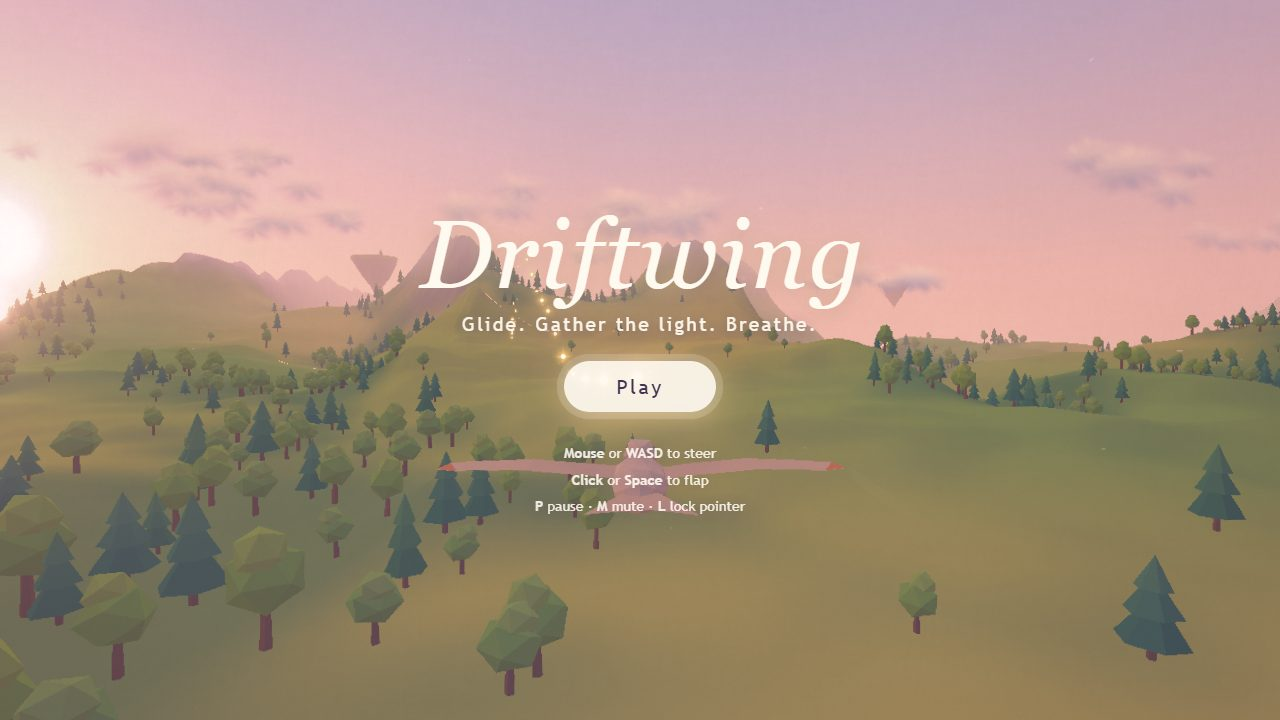
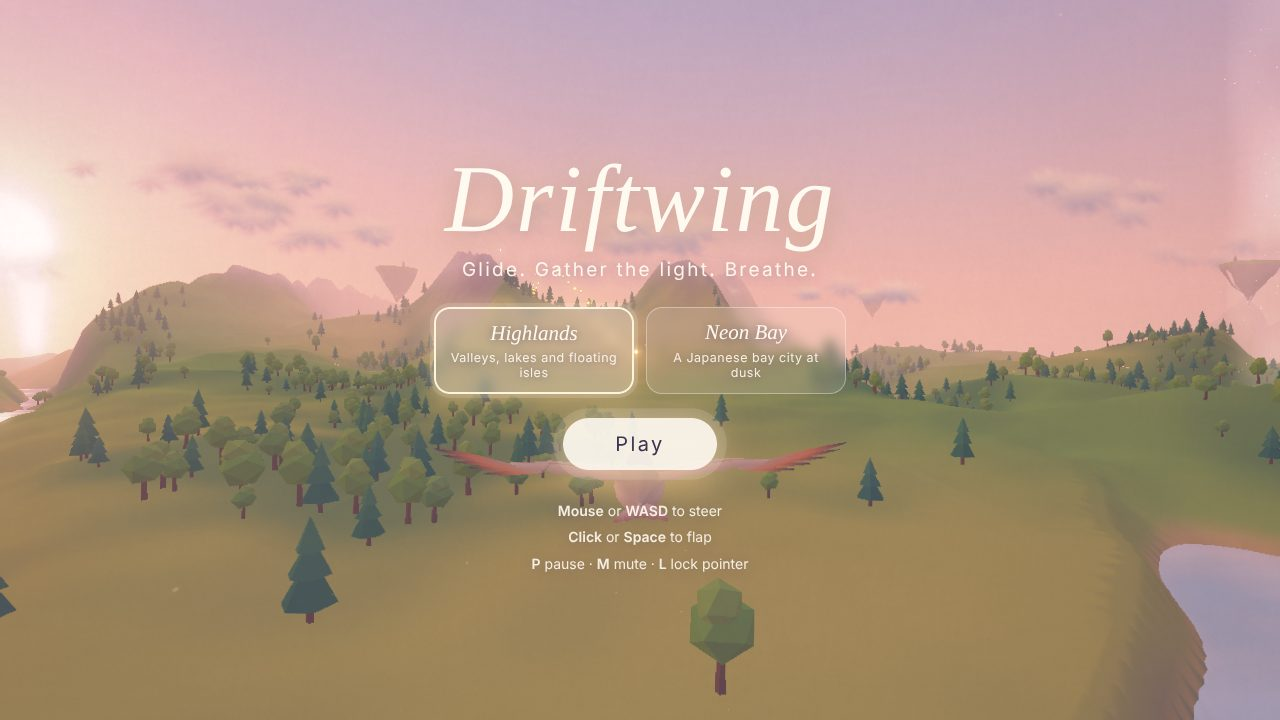
Docs, screenshots and polish for levels and Neon Bay
README: the levels, a Neon Bay gallery and the ?level flag. DESIGN.md: a
Levels and a Neon Bay section plus decisions (in-place level swap, pure city
layout, instanced facades and analytic streets, collision grid, checked wisp
paths, autopilot and re-anchor changes). CLAUDE.md: architecture for levels/
and world/city/. The screenshot scripts can place the bird at viewpoints and
take CHROMIUM_PATH. The selected level card stands out more.

Claude-Session: https://claude.ai/code/session_01UNpWdMC8dCyNR8mwCJxApg

diff --git a/src/ui/styles.css b/src/ui/styles.css
@@ -367,9 +367,11 @@ body.left-handed .flap-btn {
 }
 
 .level.selected {
-  border-color: rgba(255, 240, 210, 0.95);
-  background: rgba(255, 238, 214, 0.28);
-  box-shadow: 0 0 22px rgba(255, 210, 150, 0.45);
+  border: 2px solid rgba(255, 244, 220, 1);
+  background: rgba(255, 236, 210, 0.36);
+  box-shadow:
+    0 0 0 4px rgba(255, 255, 255, 0.14),
+    0 0 26px rgba(255, 210, 150, 0.6);
 }
 
 .level-name {

diff --git a/docs/DESIGN.md b/docs/DESIGN.md
@@ -32,6 +32,40 @@ Endless chunks from seeded noise: valleys, lakes, instanced low-poly forests, fl
 drifting clouds. Day cycle dawn -> day -> golden hour -> dusk drives sky gradient, fog and light.
 Post: bloom, paper grain, vignette, colour grade.
 
+## Levels
+
+Chosen on the title screen as cards; the attract flight behind the menu switches to the picked
+world at once (a short veil hides the rebuild). The pause menu's "Change level" returns to the
+title. The pick and a best score per level persist. A level is a `LevelDef` (name, opening time of
+day, day length, music keys, sky mountain) that creates a `World`: terrain, streamed scenery,
+what counts as solid, a steering assist, and hooks for wisp patterns and thermal placement.
+
+- **Highlands**: the original endless landscape (see World).
+- **Neon Bay**: an endless Japanese bay city, a Tokyo/Osaka blend, opening at dusk.
+
+## Neon Bay
+
+Plan: 240 m superblocks bounded by 40 m avenues (4 m tree-lined sidewalks), each split into
+3x3 blocks by 12 m streets. A bay runs east-west (spawn out on the water facing south, the sun
+setting over the skyline), a river meanders through with flat bridges, and a density field that
+peaks at a core just inland picks each block: glass towers (podium, tower, setback crown,
+antenna, blinking aviation lights), narrow mid-rises with blade signs and rooftop billboards
+(more along the river, after Dotonbori), apartment slabs, tiled gable-roof houses with gardens,
+parks (cherry, zelkova, pine, ponds, a pavilion), plazas, shrines (torii, approach path, stone
+lanterns, haiden and honden with copper or cypress roofs, a grove; sometimes an Inari tunnel of
+small torii), temples (gate, main hall, five-storey pagoda), grand wooded shrines and lattice
+broadcast towers in their own parks. Avenue crossings keep open corner plazas (a koban or a
+tree). Landmarks: a giant torii standing in the bay on the spawn line, elevated expressways
+(north-south decks at 15 m, east-west at 23 m) that cross the bay as bridges, and Fuji painted
+into the sky dome. Dusk lights the city: a hashed share of windows, shop fronts, neon, lanterns
+and lamp pools on the avenues. Music: yo pentatonic by day, hirajoshi after dusk.
+
+Flight among buildings: walls are solid but soft. A look-ahead (about a second) climbs over a
+roof within reach, dips under a deck or beam, or veers to the more open side of a tall wall; on
+contact the bird glances off, turning along the wall and losing a little speed. Wisps run down
+the avenues at street-canyon height, turning a quarter at crossings, circle towers, or glide
+over the roofs; the opening ribbon goes through the torii and up the spawn avenue.
+
 ## Gameplay
 
 Wisps in arcs/ribbons ahead of the player. Quick chains fill a flow meter (score multiplier,
@@ -107,3 +141,30 @@ Key drifts with the day cycle. SFX: flap whoosh, speed-scaled wind, splash. Look
   comfortably fast it creeps back 0.05. In Auto quality, hitting the floor steps the preset down.
   Phones default to Medium. Pixel ratio is capped per preset (max 2).
 - Debug-only lil-gui is a dynamic import, so it is a separate chunk players never download.
+- Levels swap in place (dispose the old world, build the new one at its spawn, reset time of day)
+  rather than reloading the page: audio stays unlocked and the title backdrop changes live.
+- The city layout is one pure, seeded function (no Three.js): superblocks are generated on demand
+  into parts (mesh, position, size, yaw, colour, style), trees and solid boxes, cached, and shared
+  by the renderer, collisions and wisp planning. Unit-tested in Node.
+- City rendering: six global instanced meshes (box, cylinder, gable, hip and ridge roofs, lattice)
+  plus three tree shapes, refilled from live chunks when the chunk set changes. One toon material
+  with a facade pass keyed by a per-instance style: window grids in world metres from the face
+  normal (any box gets correctly sized floors), faded to their average at a distance; lit windows,
+  neon, lanterns and aviation lights emit after dark (neon and beacons in HDR for bloom). The
+  street grid is regular, so the ground shader draws asphalt, sidewalks, lane lines, crossings and
+  lamp pools analytically from world position; a vertex attribute turns streets off in parks.
+- City collisions: boxes bucketed per superblock on an 8x8 grid (covering 24 m around it, since
+  avenue structures straddle edges), so a point query checks one cell. The push leaves through the
+  nearest face (undersides only for floating decks and beams). A wall contact kicks the turn rate
+  (a released critically damped spring turns 2r/omega in total) instead of snapping the heading.
+- City wisps are planned as a whole polyline and only spawned if every segment is clear of solids
+  (3.5 m margin). Avenue runs try canyon height, then low (9.5 m, under both deck levels, beside the
+  pillars) and high (32 m). Turns are 40 m arcs that stay inside the crossing and its corner plazas
+  even when cut, and go toward the ribbon's overall heading so it never doubles back. Runs follow
+  on from the last wisp with no gap (an unchecked gap could cross a tower).
+- Wisps (all levels): the autopilot follows the ribbon in spawn order with a carrot ~24 m ahead
+  (pure pursuit) instead of the nearest wisp; the path re-anchors only when it is behind the bird
+  or the bird has left it (no wisp ahead in reach), not merely when it runs far ahead; no pattern
+  is laid while the pool is nearly full or the path end is 600 m+ away (they would expire on
+  spawn and the path would run away). In a 10 minute headless flight per seed the city bot
+  gathers ~1.6 wisps/s and glances off a wall 0-6 times.

diff --git a/README.md b/README.md
@@ -1,9 +1,9 @@
 # Driftwing
 
-A calm, painterly bird-gliding game for the browser. Glide over an endless dreamy landscape,
-follow ribbons of glowing wisps and build a melody as you gather them. No fail state, no timer,
-no enemies. Everything (terrain, trees, sky, music, sound) is generated procedurally: the
-repository contains no art or audio assets.
+A calm, painterly bird-gliding game for the browser. Glide over an endless dreamy landscape or
+through a neon-lit Japanese bay city, follow ribbons of glowing wisps and build a melody as you
+gather them. No fail state, no timer, no enemies. Everything (terrain, trees, cities, sky,
+music, sound) is generated procedurally: the repository contains no art or audio assets.
 
 ![Title screen at dawn](docs/screenshots/title.jpg)
 
@@ -14,6 +14,30 @@ repository contains no art or audio assets.
 | ![Dusk](docs/screenshots/dusk.jpg) | ![Twilight](docs/screenshots/twilight.jpg)  |
 
 <img src="docs/screenshots/mobile.jpg" alt="Portrait phone layout" width="240">
+
+### Levels
+
+Pick a level on the title screen (the live backdrop follows your pick; the pause menu can take
+you back to choose again).
+
+- **Highlands**: endless valleys, lakes, forests and floating islands.
+- **Neon Bay**: an endless Japanese megacity on a bay, a Tokyo and Osaka blend, opening at dusk.
+  Start out on the water, fly through a giant torii and up a boulevard into the skyline. Glass
+  towers, narrow neon-signed shopping streets (busiest along the river), tiled-roof houses,
+  shrines and temples with pagodas, cherry-tree parks, elevated expressways, a lattice
+  broadcast tower and Fuji on the horizon. Windows and neon light up as night falls; the music
+  turns to Japanese pentatonic scales. Wisps lead down the avenues at street-canyon height:
+  buildings are solid but soft (you glance off them) and the bird veers around walls ahead.
+
+![Neon Bay title screen](docs/screenshots/city-title.jpg)
+
+| Down the boulevard at dusk                          | Night                                     |
+| --------------------------------------------------- | ----------------------------------------- |
+| ![Canyon](docs/screenshots/city-canyon.jpg)         | ![Night](docs/screenshots/city-night.jpg) |
+| **Temple and pagoda**                               | **Broadcast tower and Fuji**              |
+| ![Temple](docs/screenshots/city-temple.jpg)         | ![Tower](docs/screenshots/city-tower.jpg) |
+| **Under the expressway**                            |                                           |
+| ![Expressway](docs/screenshots/city-expressway.jpg) |                                           |
 
 ## Play
 
@@ -47,7 +71,10 @@ ground or water is only ever a soft skim.
 | `npm run shots`   | Regenerate the README screenshots (needs a running dev or preview server).                   |
 
 URL flags: `?debug`, `?autopilot` (a bot flies and collects, used for screenshots),
-`?time=0..1` (time of day), `?seed=N` (world seed), `?quality=low|medium|high`.
+`?time=0..1` (time of day), `?seed=N` (world seed), `?quality=low|medium|high`,
+`?level=highlands|city`.
+
+Screenshot scripts use Playwright's Chromium; set `CHROMIUM_PATH` to use another build.
 
 Pushing to `main` deploys to GitHub Pages via `.github/workflows/pages.yml` (enable Pages with
 "GitHub Actions" as the source in the repository settings).
@@ -57,9 +84,16 @@ Pushing to `main` deploys to GitHub Pages via `.github/workflows/pages.yml` (ena
 - **Flight**: an arcade glide model (`src/player/FlightModel.ts`) that trades height for speed,
   steers through critically damped springs and can't stall or crash, at a fixed 60 Hz step with
   interpolated rendering.
+- **Levels**: a level supplies a `World` (`src/levels/`): terrain, scenery, what is solid, and
+  hooks for where wisps and thermals go. Game and gameplay only talk to that interface, so the
+  level can be swapped at runtime.
 - **World**: seeded simplex noise drives one height function shared by terrain chunks (streamed,
   pooled, two LODs), instanced forests, wisp placement and collisions. A palette-driven day cycle
   tints sky, fog, light, water and the post grade.
+- **City**: a pure, seeded layout (`src/world/city/CityLayout.ts`) of superblocks, blocks and
+  avenues gives every building, shrine and tree as data, shared by the instanced renderer (a
+  handful of meshes; window grids and neon are drawn by a facade shader, the street grid
+  analytically on the ground), collisions and wisp planning, which checks every ribbon is clear.
 - **Look**: soft toon banding, gentle bloom, a paper-grain/edge-wobble/grade/vignette pass.
 - **Music**: a Web Audio lookahead scheduler plays detuned pads, a drone, FM bells and
   flow-driven layers in pentatonic keys that drift with the time of day. Each wisp plays the

diff --git a/CLAUDE.md b/CLAUDE.md
@@ -11,7 +11,8 @@ The design and decisions log live in `docs/DESIGN.md`. Read it before changing f
 - `node scripts/shot.mjs <url> <out.png> [waitMs] [clickSelector] [w] [h]`: one headless screenshot.
 - `npm run shots`: regenerate README screenshots into `docs/screenshots/` (needs a running server).
 - URL flags: `?debug`, `?autopilot` (skips the title; a bot flies toward wisps), `?time=0..1` (day phase),
-  `?seed=N`, `?quality=low|medium|high`.
+  `?seed=N`, `?quality=low|medium|high`, `?level=highlands|city`.
+- Screenshot scripts take `CHROMIUM_PATH` to use a system Chromium (e.g. `/opt/pw-browsers/chromium`).
 - Automation hooks on `window`: `__dw` (Game, `info()`), `__gp` (Gameplay), `__audio` (GameAudio).
 - Headless Chromium: on Windows `--use-angle=d3d11` uses the real GPU; elsewhere SwiftShader works but is slow.
 
@@ -30,13 +31,19 @@ The design and decisions log live in `docs/DESIGN.md`. Read it before changing f
 
 - `main.ts`: wires Game + Gameplay + GameAudio + Menu, settings persistence, pause/mute/hints.
 - `core/Loop.ts`: fixed 60 Hz step + accumulator; render gets `alpha` to interpolate. dt clamped.
-- `core/Game.ts`: renderer, scene, flight, camera, world systems, adaptive resolution/quality.
-  Modes: `menu` (bot flies the attract backdrop), `playing`, `paused`. `onStep`/`onFrame` hooks.
+- `core/Game.ts`: renderer, scene, flight, camera, sky/water/clouds, adaptive resolution/quality, and the
+  current level's `World` (`setLevel` swaps it in place). Modes: `menu` (bot flies the attract backdrop),
+  `playing`, `paused`. `onStep`/`onFrame` hooks.
+- `levels/`: `World` interface + `LevelDef`; `Highlands` (chunks, trees, islands), `City`; `index` registry.
 - `core/Gameplay.ts`: wisps, flow (`Progress`), thermals, lanterns, particles, trails, wind, HUD.
 - `core/Events.ts`: typed bus (flap, contact, wisp, lantern, thermal) so audio/fx/ui stay decoupled.
 - `player/FlightModel.ts`: pure arcade glide physics. `Bird.ts` visuals only. `ChaseCamera.ts` polar springs.
-- `world/`: `noise` -> `Terrain` height field shared by `ChunkManager` (streaming, LOD), `Trees`
-  (instanced), `Islands`, `Wisps`, `Thermals`. `DayCycle` palette drives `Sky`, `Water`, `Clouds`, lights, post.
+- `world/`: `noise` -> `Terrain` height field shared by `ChunkManager` (streaming, LOD, generic per-chunk
+  decor), `Trees` (instanced), `Islands`, `Wisps` (+ optional level `WispPlanner`), `Thermals`. `DayCycle`
+  palette drives `Sky` (incl. the city's Fuji), `Water`, `Clouds`, lights, post.
+- `world/city/`: `CityLayout` (pure plan: superblocks -> parts, trees, solid boxes; queries), `collide`
+  (pure look-ahead + wall glance), `CityWisps` (avenue/spiral/glide planner, paths checked clear),
+  `CityDecor` (instanced meshes), `geometry`, `materials` (facade + street shaders), `CityWorld`.
 - `fx/`: `Composer` (render -> bloom -> painterly -> output), `Particles` (ring-buffer pools), `Trails`,
   `Wind` (speed streaks), `BlobShadow`.
 - `audio/`: `AudioEngine` (context, buses, synthesized reverb), `Music` (lookahead scheduler, layers),
